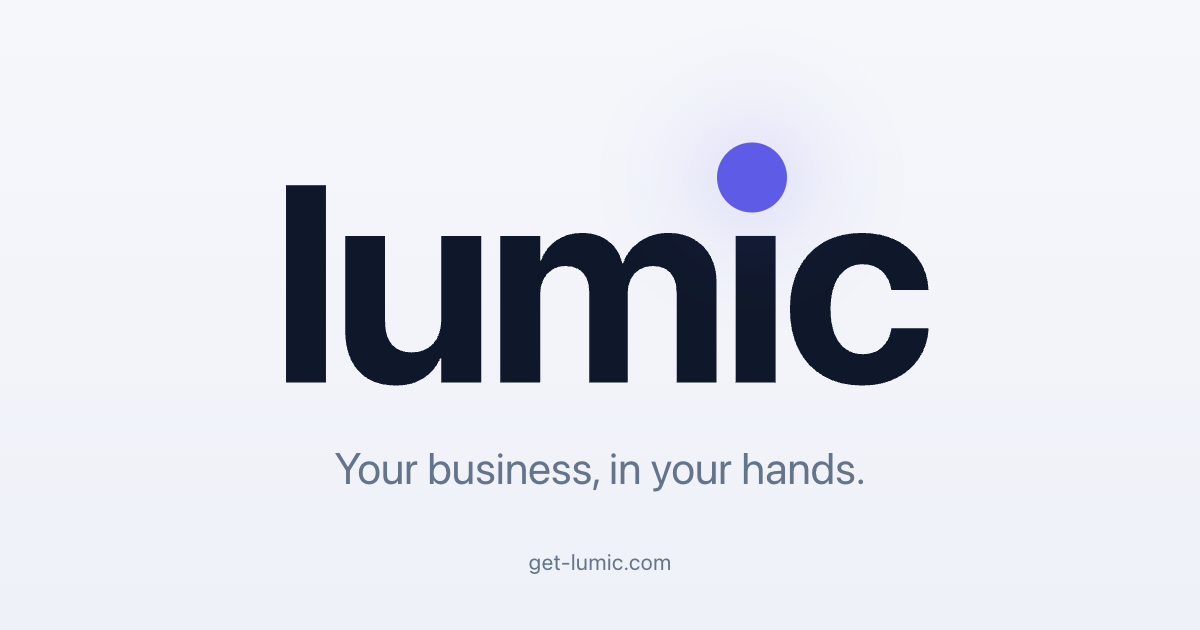
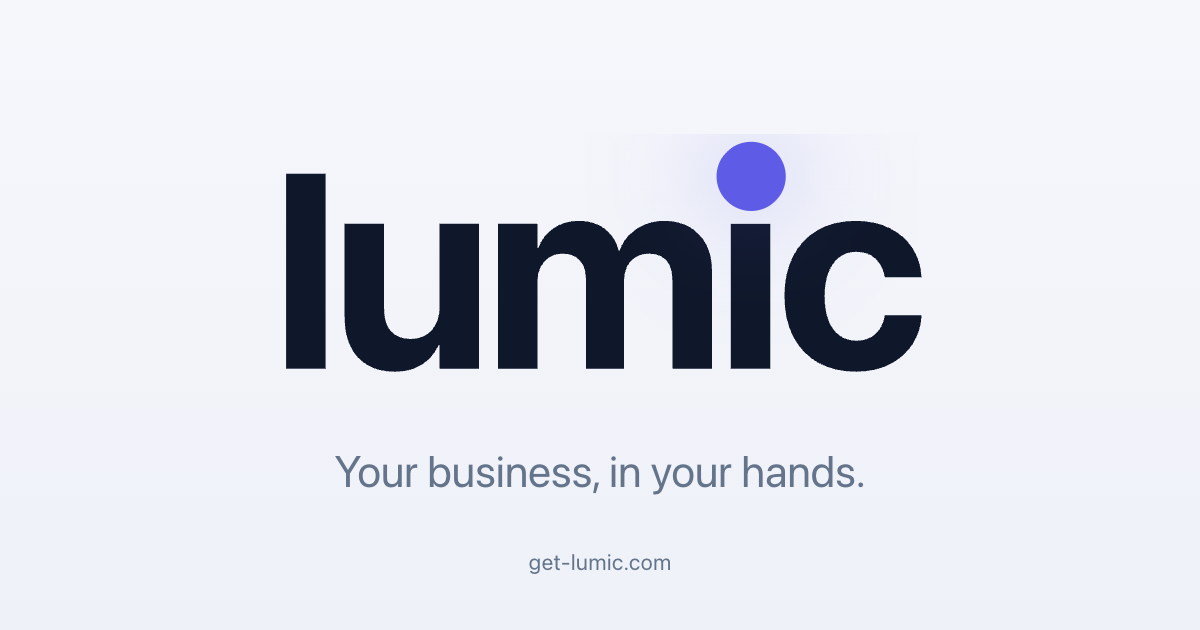
Center the i-dot orb on the visible ı stem (CSS + OG)
Two surfaces had the orb anchored to the .idot inline-block's geometric
center instead of the actual visible stem of the dotless ı:

- Website .brand: with letter-spacing -.025em, the .idot inline-block's
  width is reduced by ~7px at font 280, pulling its 'left:50%' anchor
  ~3px LEFT of the real stem. Shift dot left by +.0125em (= half the
  letter-spacing) so it lands on the visible stem center.
- OG image (link previews in iMessage/Slack/etc.): switch from the CSS
  rendering to the canonical brand-kit wordmark.svg (which already
  positions the orb on the stem, verified by pixel scan). build_og_image.py
  now copies the brand-kit SVG into public/ before each render so the
  OG image stays in lockstep with playbook/brand/.

Public-facing /wordmark.svg now lives at the site root for any external
embed.

Changed region(s): [[0.2158, 0.3317, 0.7708, 0.6333], [0.2775, 0.7238, 0.7092, 0.7841], [0.2158, 0.2714, 0.2775, 0.3016]]

diff --git a/scripts/og-template.html b/scripts/og-template.html
@@ -7,9 +7,7 @@
 :root {
   --bg:           #f6f7fb;
   --bg-2:         #eef1f8;
-  --text-strong:  #0f172a;
   --muted:        #64748b;
-  --primary:      #5e5ce6;
 }
 
 * { box-sizing: border-box; margin: 0; padding: 0; }
@@ -29,28 +27,17 @@ html, body {
   position: relative;
 }
 
-/* Wordmark — same exact construction as the header .brand element,
-   just larger. Sizing in em keeps the indigo orb proportional. */
-.brand {
-  font-size: 280px;
-  font-weight: 700;
-  letter-spacing: -.025em;
-  color: var(--text-strong);
-  line-height: 1;
-}
-.idot { position: relative; display: inline-block; }
-.idot-dot {
-  position: absolute;
-  top: .02em; left: 50%;
-  width: .25em; height: .25em;
-  border-radius: 50%;
-  background: var(--primary);
-  box-shadow: 0 0 0.4em rgba(94, 92, 230, 0.55);
-  transform: translateX(-50%);
+/* Wordmark — render the canonical brand-kit SVG (~/projects/playbook/
+   brand/logos/wordmark.svg, copied to /wordmark.svg) so the orb sits
+   exactly where the brand-kit math placed it. Aspect ratio 312:121. */
+.brand-svg {
+  width: 720px;
+  height: auto;
+  display: block;
 }
 
 .tagline {
-  margin-top: 24px;
+  margin-top: 32px;
   font-size: 44px; font-weight: 400;
   color: var(--muted);
   letter-spacing: -.2px;
@@ -68,7 +55,7 @@ html, body {
 </head>
 <body>
   <div class="stage">
-    <div class="brand">lum<span class="idot">&#305;<span class="idot-dot"></span></span>c</div>
+    <img class="brand-svg" src="./wordmark.svg" alt="lumic">
     <div class="tagline">Your business, in your hands.</div>
     <div class="url">get-lumic.com</div>
   </div>

diff --git a/public/index.html b/public/index.html
@@ -136,7 +136,11 @@ button { font-family: inherit; cursor: pointer; }
 .idot { position: relative; display: inline-block; }
 .idot-dot {
   position: absolute;
-  top: .02em; left: 50%;
+  /* Shift +0.0125em (= half the .brand letter-spacing) to compensate for
+     how letter-spacing shrinks the .idot inline-block's box on the right
+     side, which otherwise pulls the dot's "left:50%" anchor a hair LEFT
+     of the actual ı stem. Matches the brand-kit SVG positioning. */
+  top: .02em; left: calc(50% + 0.0125em);
   width: .25em; height: .25em;
   border-radius: 50%;
   background: var(--primary);

diff --git a/scripts/build_og_image.py b/scripts/build_og_image.py
@@ -1,17 +1,22 @@
 """Build public/og-image.png (1200x630) by rendering scripts/og-template.html.
 
-The template uses the same .brand markup and CSS as the live site header, so
-the wordmark and indigo orb in the OG image are pixel-equivalent to what
-visitors see at the top of get-lumic.com.
+The template embeds ~/projects/playbook/brand/logos/wordmark.svg as an <img>,
+so the wordmark and indigo orb in the OG image are pixel-equivalent to the
+canonical brand-kit asset (and therefore to every other surface that uses it).
 
 Run: python3 scripts/build_og_image.py
 First-time setup: pip install playwright && playwright install chromium
 """
+import shutil
 from pathlib import Path
 
 ROOT = Path(__file__).resolve().parents[1]
 TEMPLATE = ROOT / "scripts" / "og-template.html"
 OUT = ROOT / "public" / "og-image.png"
+
+BRAND_WORDMARK = Path.home() / "projects" / "playbook" / "brand" / "logos" / "wordmark.svg"
+PUBLIC_WORDMARK = ROOT / "public" / "wordmark.svg"
+PUBLIC_TEMPLATE = ROOT / "public" / "_og-template.html"  # served path for /wordmark.svg to resolve
 
 
 def main() -> None:
@@ -23,12 +28,25 @@ def main() -> None:
             "Run: pip install playwright && playwright install chromium"
         )
 
-    with sync_playwright() as p:
-        browser = p.chromium.launch()
-        page = browser.new_page(viewport={"width": 1200, "height": 630})
-        page.goto(TEMPLATE.as_uri())
-        page.screenshot(path=str(OUT), full_page=False, omit_background=False)
-        browser.close()
+    if not BRAND_WORDMARK.exists():
+        raise SystemExit(f"brand wordmark not found at {BRAND_WORDMARK}")
+
+    # Sync the brand-kit wordmark into public/ so the template's <img src="/wordmark.svg">
+    # resolves to the canonical asset on every render.
+    shutil.copyfile(BRAND_WORDMARK, PUBLIC_WORDMARK)
+    shutil.copyfile(TEMPLATE, PUBLIC_TEMPLATE)
+
+    try:
+        with sync_playwright() as p:
+            browser = p.chromium.launch()
+            context = browser.new_context(viewport={"width": 1200, "height": 630})
+            page = context.new_page()
+            # Serve via file:// from the public dir so /wordmark.svg resolves.
+            page.goto(PUBLIC_TEMPLATE.as_uri())
+            page.screenshot(path=str(OUT), full_page=False, omit_background=False)
+            browser.close()
+    finally:
+        PUBLIC_TEMPLATE.unlink(missing_ok=True)
 
     print(f"wrote {OUT}  ({OUT.stat().st_size:,} bytes)")
 
